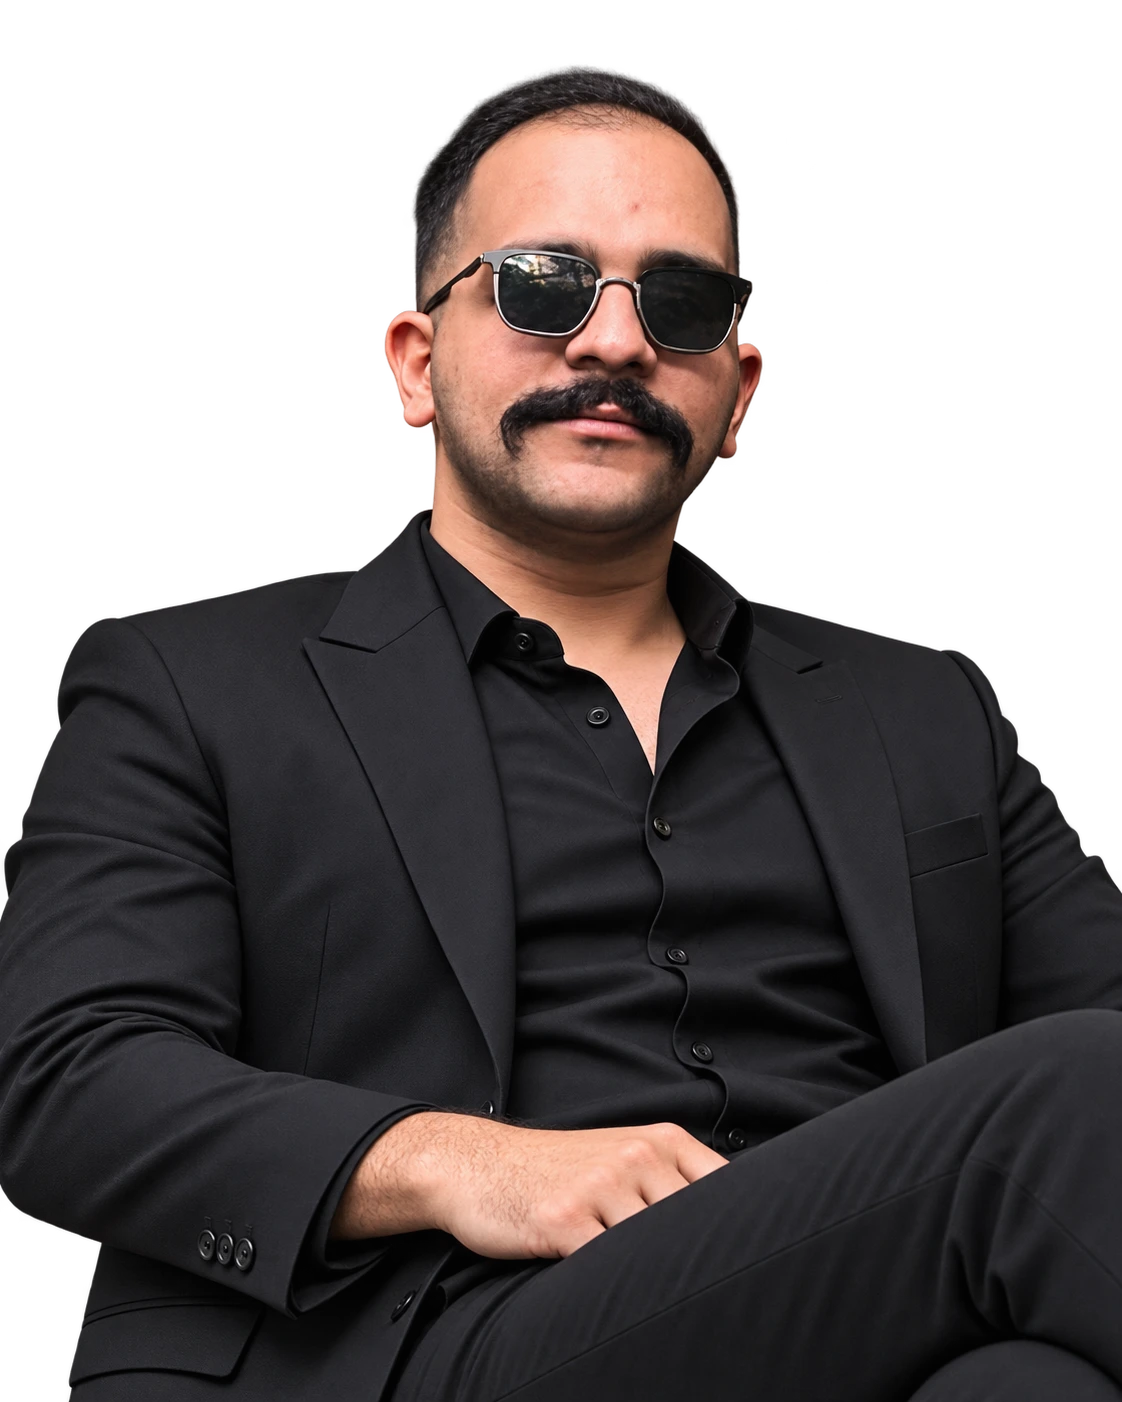
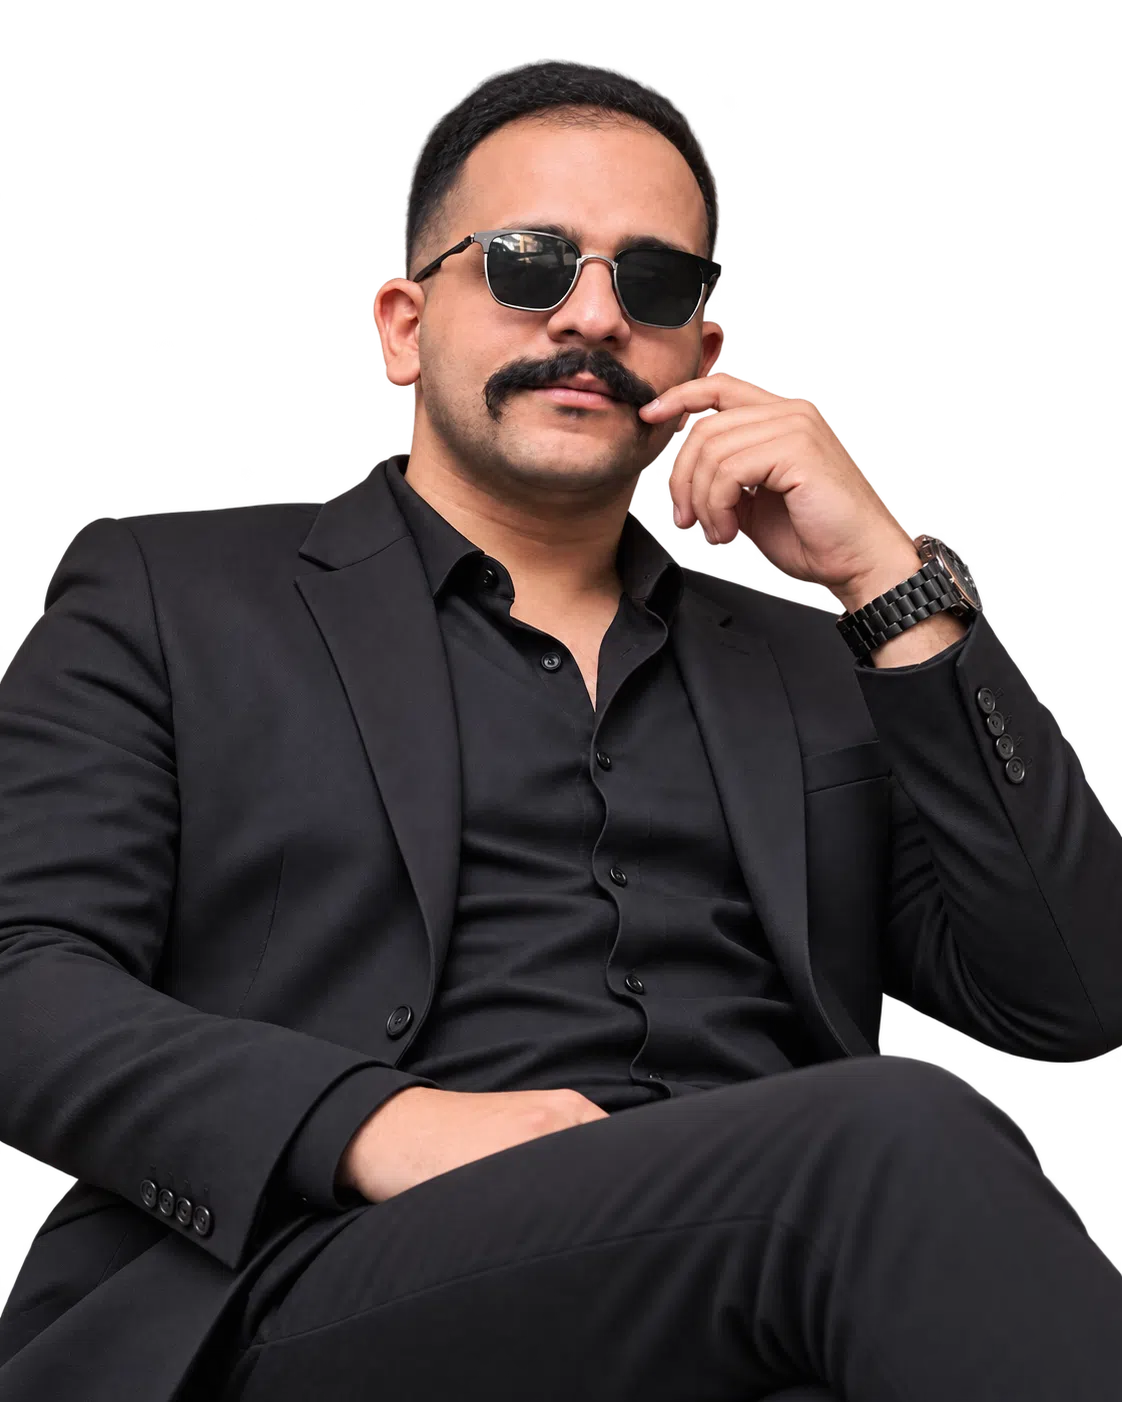
fix(portfolio): install approved sunglasses portrait as actual Hero asset

diff --git a/tests/guided-tour.spec.ts b/tests/guided-tour.spec.ts
@@ -1,4 +1,7 @@
 import {test,expect,type Page} from '@playwright/test';
+import {createHash} from 'node:crypto';
+import {readFileSync} from 'node:fs';
+import {join} from 'node:path';
 
 const introSeen=async(page:Page)=>page.addInitScript(()=>{
  try{sessionStorage.setItem('saeid-portfolio-intro-v1','seen');}catch{}
@@ -58,7 +61,7 @@ test('professional photo is the verified existing owner portrait, with office vi
  await page.goto('/',{waitUntil:'domcontentloaded'});
  const portrait=page.locator('#top .sx-v4-hero-persona img');
  await expect(portrait).toHaveAttribute('src','/assets/hires/portrait.webp');
- await expect(portrait).toHaveAttribute('alt',/tailored dark suit/);
+ await expect(portrait).toHaveAttribute('alt',/dark sunglasses and a black suit/);
  const d=await portrait.evaluate(async (img:HTMLImageElement)=>{
   await img.decode();
   const bg=getComputedStyle(img.parentElement!,'::before').backgroundImage;
@@ -95,4 +98,11 @@ test('reduced-motion visitors are not launched into automatic playback',async({b
  await page.getByRole('button',{name:'Start guided site tour'}).click();
  await expect(page.getByRole('region',{name:'Guided portfolio tour'})).toHaveCount(0);
  await context.close();
+});
+
+
+test('approved owner portrait is the exact production asset, not the prior portrait',async()=>{
+ const original=readFileSync(join(process.cwd(),'public','assets','hires','portrait.webp'));
+ expect(createHash('sha256').update(original).digest('hex'))
[1 lines of base64/hex data omitted]
 });

diff --git a/components/ScrollHero.tsx b/components/ScrollHero.tsx
@@ -60,7 +60,7 @@ export function ScrollHero(){
    </div>
    <div className="sx-v4-hero-persona">
     <span className="sx-v5-portrait-halo" aria-hidden="true"/>
-    <img src="/assets/hires/portrait.webp" width={1122} height={1402} loading="eager" fetchPriority="high" decoding="async" alt="Saeid Shamsaei wearing a tailored dark suit and a collared shirt"/>
+    <img src="/assets/hires/portrait.webp" width={1122} height={1402} loading="eager" fetchPriority="high" decoding="async" alt="Saeid Shamsaei in dark sunglasses and a black suit, with his hand beside his mustache"/>
     <span className="sx-v5-office-label" aria-hidden="true">THE PERSON BEHIND THE WORK <span>01 / 04</span></span>
    </div>
    <div className="sx-hero-bottom"><span>DESIGN · BUILD · EVOLVE</span><span>SCROLL TO EXPLORE ↓</span></div>
